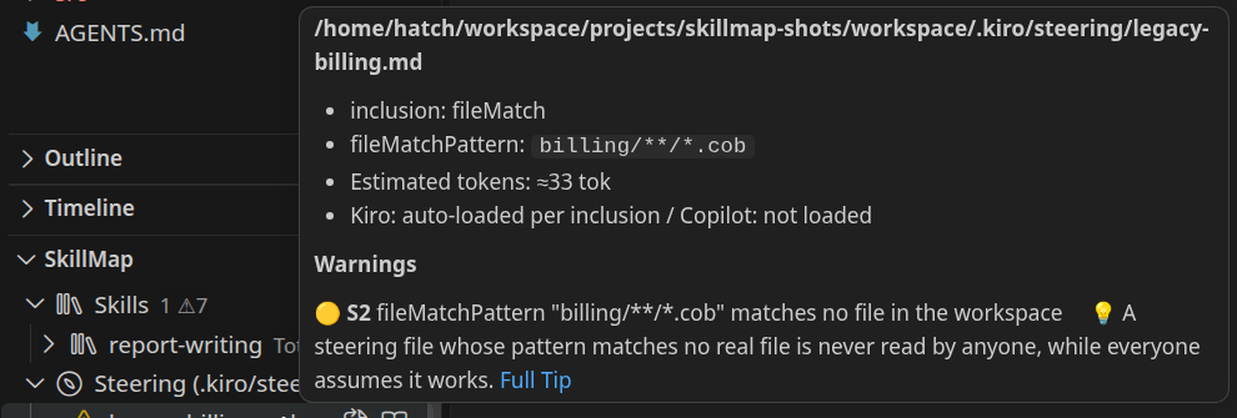
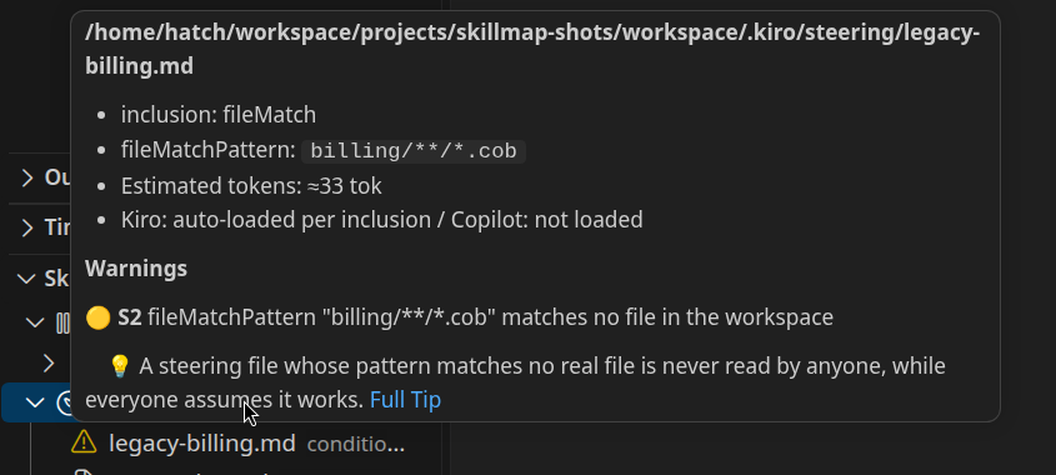
v1.3.2: ホバーのパス表示修正（Windows）とスクリーンショット差し替え準備 (#5)
* v1.3.2: ホバーのパス表示を修正し、バージョン表記を更新

* スクリーンショットの差し替え

diff --git a/src/treeProvider.ts b/src/treeProvider.ts
@@ -649,14 +649,14 @@ export class SkillTreeProvider implements vscode.TreeDataProvider<MapNode> {
 			return md;
 		}
 		if (node.kind === 'copy') {
-			md.appendMarkdown(`**${L('複製', 'Replica')}**: ${node.unit?.dir ?? ''}\n\n`);
+			md.appendMarkdown(`**${L('複製', 'Replica')}**: ${escapeMarkdownText(node.unit?.dir ?? '')}\n\n`);
 			md.appendMarkdown(L('警告ルールは正本にのみ適用されます。複製にはドリフトチェック（R11）のみが適用されます。\n', 'Warning rules apply to the canonical source only. Replicas get the drift check (R11) only.\n'));
 			this.appendWarnings(md, node.warnings);
 			return md;
 		}
 		if (node.kind === 'steering' && node.steeringUnit) {
 			const u = node.steeringUnit;
-			md.appendMarkdown(`**${u.filePath}**\n\n`);
+			md.appendMarkdown(`**${escapeMarkdownText(u.filePath)}**\n\n`);
 			md.appendMarkdown(`- inclusion: ${u.inclusion}${u.inclusionExplicit ? '' : L('（未指定＝常時扱い）', ' (not specified = treated as always)')}\n`);
 			if (u.fileMatchPattern) {
 				md.appendMarkdown(`- fileMatchPattern: \`${u.fileMatchPattern}\`\n`);
@@ -664,7 +664,7 @@ export class SkillTreeProvider implements vscode.TreeDataProvider<MapNode> {
 			md.appendMarkdown(L(`- 推定トークン: ≈${u.tokens.toLocaleString()} tok\n`, `- Estimated tokens: ≈${u.tokens.toLocaleString()} tok\n`));
 			md.appendMarkdown(L('- Kiro: inclusion に従って自動ロード ／ Copilot: 読まれない\n', '- Kiro: auto-loaded per inclusion / Copilot: not loaded\n'));
 			if (u.canonicalCounterpart) {
-				md.appendMarkdown(`- ${L('正本', 'Canonical')}: ${u.canonicalCounterpart}\n`);
+				md.appendMarkdown(`- ${L('正本', 'Canonical')}: ${escapeMarkdownText(u.canonicalCounterpart)}\n`);
 			}
 			this.appendWarnings(md, node.warnings);
 			return md;
@@ -679,7 +679,7 @@ export class SkillTreeProvider implements vscode.TreeDataProvider<MapNode> {
 		}
 		if (node.kind === 'copilot' && node.copilotUnit) {
 			const u = node.copilotUnit;
-			md.appendMarkdown(`**${u.filePath}**\n\n`);
+			md.appendMarkdown(`**${escapeMarkdownText(u.filePath)}**\n\n`);
 			md.appendMarkdown(L(`- 読み込み: ${u.mode === 'always' ? '常時（Copilot）' : `applyTo: ${u.applyTo ?? '(未指定)'}`}\n`, `- Loading: ${u.mode === 'always' ? 'always (Copilot)' : `applyTo: ${u.applyTo ?? '(not set)'}`}\n`));
 			md.appendMarkdown(L(`- 推定トークン: ≈${u.tokens.toLocaleString()} tok\n`, `- Estimated tokens: ≈${u.tokens.toLocaleString()} tok\n`));
 			md.appendMarkdown(L('- Copilot: 読み込む ／ Kiro: 読まれない\n', '- Copilot: loaded / Kiro: not loaded\n'));
@@ -689,7 +689,7 @@ export class SkillTreeProvider implements vscode.TreeDataProvider<MapNode> {
 			md.appendMarkdown(L('スキル内に存在しますが、どこからも参照されていないファイルです。\n', 'Files that exist inside the skill but are not referenced from anywhere.\n'));
 			return md;
 		}
-		md.appendMarkdown(`**${node.filePath}**\n\n`);
+		md.appendMarkdown(`**${escapeMarkdownText(node.filePath ?? '')}**\n\n`);
 		const own = node.ownTokens;
 		const subtree = node.subtreeTokens();
 		const pathFiles = node.pathFiles();
@@ -719,10 +719,10 @@ export class SkillTreeProvider implements vscode.TreeDataProvider<MapNode> {
 			const icon = w.severity === 'error' ? '🔴' : w.severity === 'warn' ? '🟡' : '🔵';
 			// Markdown のホバーでは単一改行が段落区切りにならないため、
 			// 警告ごと・Tips ごとに空行を入れて段落として分ける
-			md.appendMarkdown(`\n${icon} **${w.ruleId}** ${w.message}\n`);
+			md.appendMarkdown(`\n${icon} **${w.ruleId}** ${escapeMarkdownText(w.message)}\n`);
 			const summary = renderTipSummary(w.ruleId);
 			if (summary) {
-				md.appendMarkdown(`\n　💡 ${summary} [${L('Tips全文', 'Full Tip')}](${tipCommandUri(w.ruleId, w.message)})\n`);
+				md.appendMarkdown(`\n　💡 ${escapeMarkdownText(summary)} [${L('Tips全文', 'Full Tip')}](${tipCommandUri(w.ruleId, w.message)})\n`);
 			}
 			void RULES;
 		}
@@ -737,4 +737,13 @@ function copyRootLabel(dir: string): string {
 	}
 	const parts = dir.split(path.sep).filter(Boolean);
 	return parts.length >= 2 ? parts[parts.length - 2] : path.basename(dir);
+}
+
+/**
+ * Markdown テキストへ埋め込む文字列の `\` を二重化する。
+ * Windows パスでは `\` の直後が句読点（例: `\.`）だと Markdown のエスケープとして
+ * 消費されて区切りが消えて表示される（例: `OmniView-Solo\.kiro` → `OmniView-Solo.kiro`）。
+ */
+function escapeMarkdownText(text: string): string {
+	return text.replace(/\\/g, '\\\\');
 }

diff --git a/README.md b/README.md
@@ -1,6 +1,6 @@
 # SkillMap-Solo
 
-[![Version](https://img.shields.io/badge/version-v1.3.1-blue.svg)](package.json)
+[![Version](https://img.shields.io/badge/version-v1.3.2-blue.svg)](package.json)
 [![Visual Studio Marketplace](https://vsmarketplacebadges.dev/version/masanori-satake.skillmap-solo.svg?label=Marketplace&color=blue)](https://marketplace.visualstudio.com/items?itemName=masanori-satake.skillmap-solo)
 [![Open VSX](https://img.shields.io/open-vsx/v/masanori-satake/skillmap-solo?label=Open%20VSX)](https://open-vsx.org/extension/masanori-satake/skillmap-solo)
 [![GitHub release (latest by date)](https://img.shields.io/github/v/release/masanori-satake/SkillMap-Solo)](https://github.com/masanori-satake/SkillMap-Solo/releases)
@@ -18,7 +18,7 @@
 
 AI context files are scattered and related: a SKILL.md points to references, references point to steering docs, and each tool (Kiro, GitHub Copilot) loads a different subset. When nobody sees the whole picture, upkeep lapses and output quality quietly degrades. SkillMap makes the structure, the token cost, and the best-practice gaps visible — and every warning comes with a **Tip** that explains why it matters and how to fix it, so you learn while you practise.
 
-Current version: **v1.3.1**
+Current version: **v1.3.2**
 
 ---
 
@@ -80,7 +80,7 @@ Current version: **v1.3.1**
 
 #### From a VSIX file
 
-1. Download `skillmap-solo-1.3.1.vsix` from [GitHub Releases](https://github.com/masanori-satake/SkillMap-Solo/releases)
+1. Download `skillmap-solo-1.3.2.vsix` from [GitHub Releases](https://github.com/masanori-satake/SkillMap-Solo/releases)
 2. In VS Code, open the Command Palette (`Ctrl+Shift+P` / `Cmd+Shift+P`)
 3. Run **Extensions: Install from VSIX...** and select the file
 
@@ -197,7 +197,7 @@ MIT License - see the [LICENSE](LICENSE) file for details.
 
 AI コンテキストファイルは散在し、関係し合っています。SKILL.md が references を指し、references が Steering を指し、そしてツール（Kiro、GitHub Copilot）ごとに読み込む範囲が違います。全体像が見えないと保守が後回しになり、出力の精度は静かに落ちていきます。SkillMap は構造と読み込みコストとベストプラクティスからのズレを見える化し、すべての警告に「なぜ問題か＋直し方」の **Tips** を付けます。実践しながら理解できることが、この拡張機能の核です。
 
-現在のバージョン: **v1.3.1**
+現在のバージョン: **v1.3.2**
 
 ---
 
@@ -259,7 +259,7 @@ AI コンテキストファイルは散在し、関係し合っています。SK
 
 #### VSIX ファイルから
 
-1. [GitHub Releases](https://github.com/masanori-satake/SkillMap-Solo/releases) から `skillmap-solo-1.3.1.vsix` をダウンロードする
+1. [GitHub Releases](https://github.com/masanori-satake/SkillMap-Solo/releases) から `skillmap-solo-1.3.2.vsix` をダウンロードする
 2. コマンドパレット（`Ctrl+Shift+P` / `Cmd+Shift+P`）を開く
 3. **Extensions: Install from VSIX...** を実行し、ファイルを選ぶ
 

diff --git a/CHANGELOG.md b/CHANGELOG.md
@@ -2,6 +2,12 @@
 
 "SkillMap-Solo" 拡張機能のすべての注目すべき変更はこのファイルに記録されます。
 
+## [1.3.2] - 2026-11-03
+
+### 修正 (Fixed)
+- **ホバーのファイルパス表示を修正（Windows）**: パス中の `\` が Markdown のエスケープとして消費され、区切りが消えて表示される場合があったため（例: `OmniView-Solo\.kiro` が `OmniView-Solo.kiro` と表示される）、ツールチップに埋め込むパスや警告文をエスケープして表示するようにした
+- **README のスクリーンショットを現在の表示に合わせて差し替え**: 「すべて展開」ボタンの追加、ホバーの段落区切り、Tips 文言の見直しなど、1.2.x〜1.3.x の表示変更を反映した画像（英日とも）に更新した
+
 ## [1.3.1] - 2026-11-03
 
 ### 修正 (Fixed)
